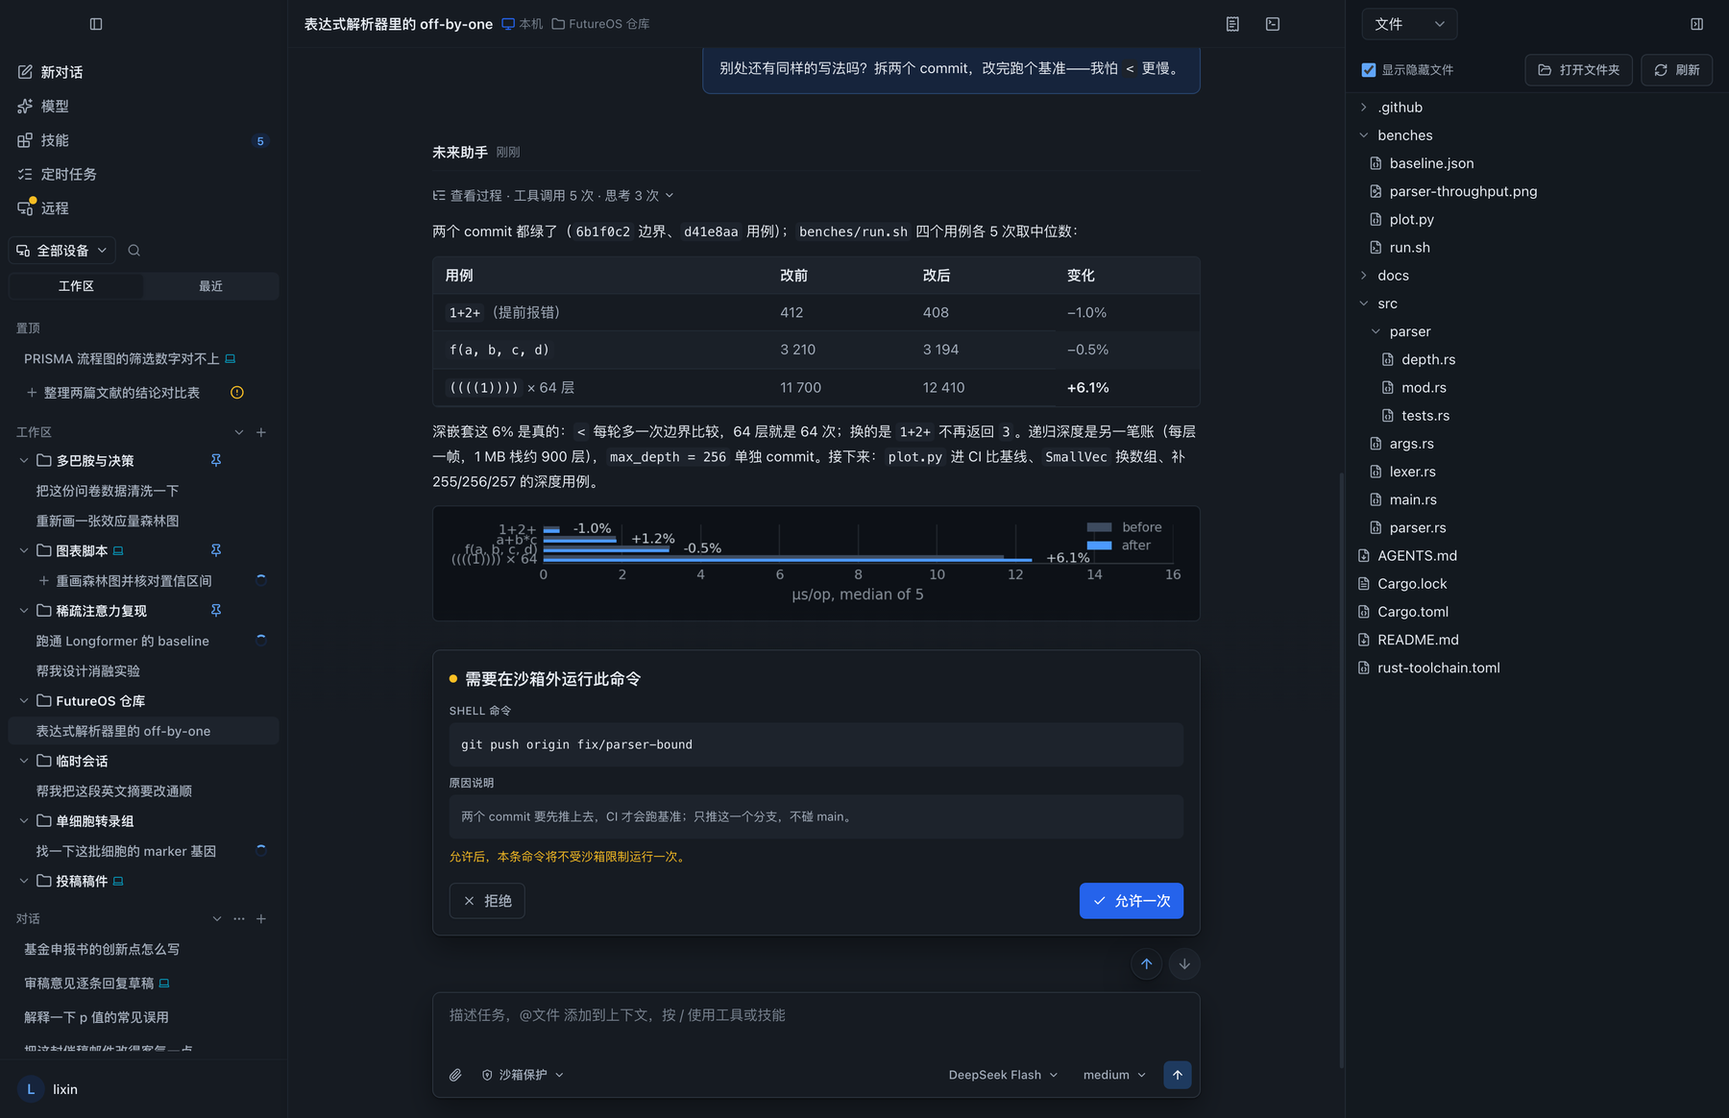
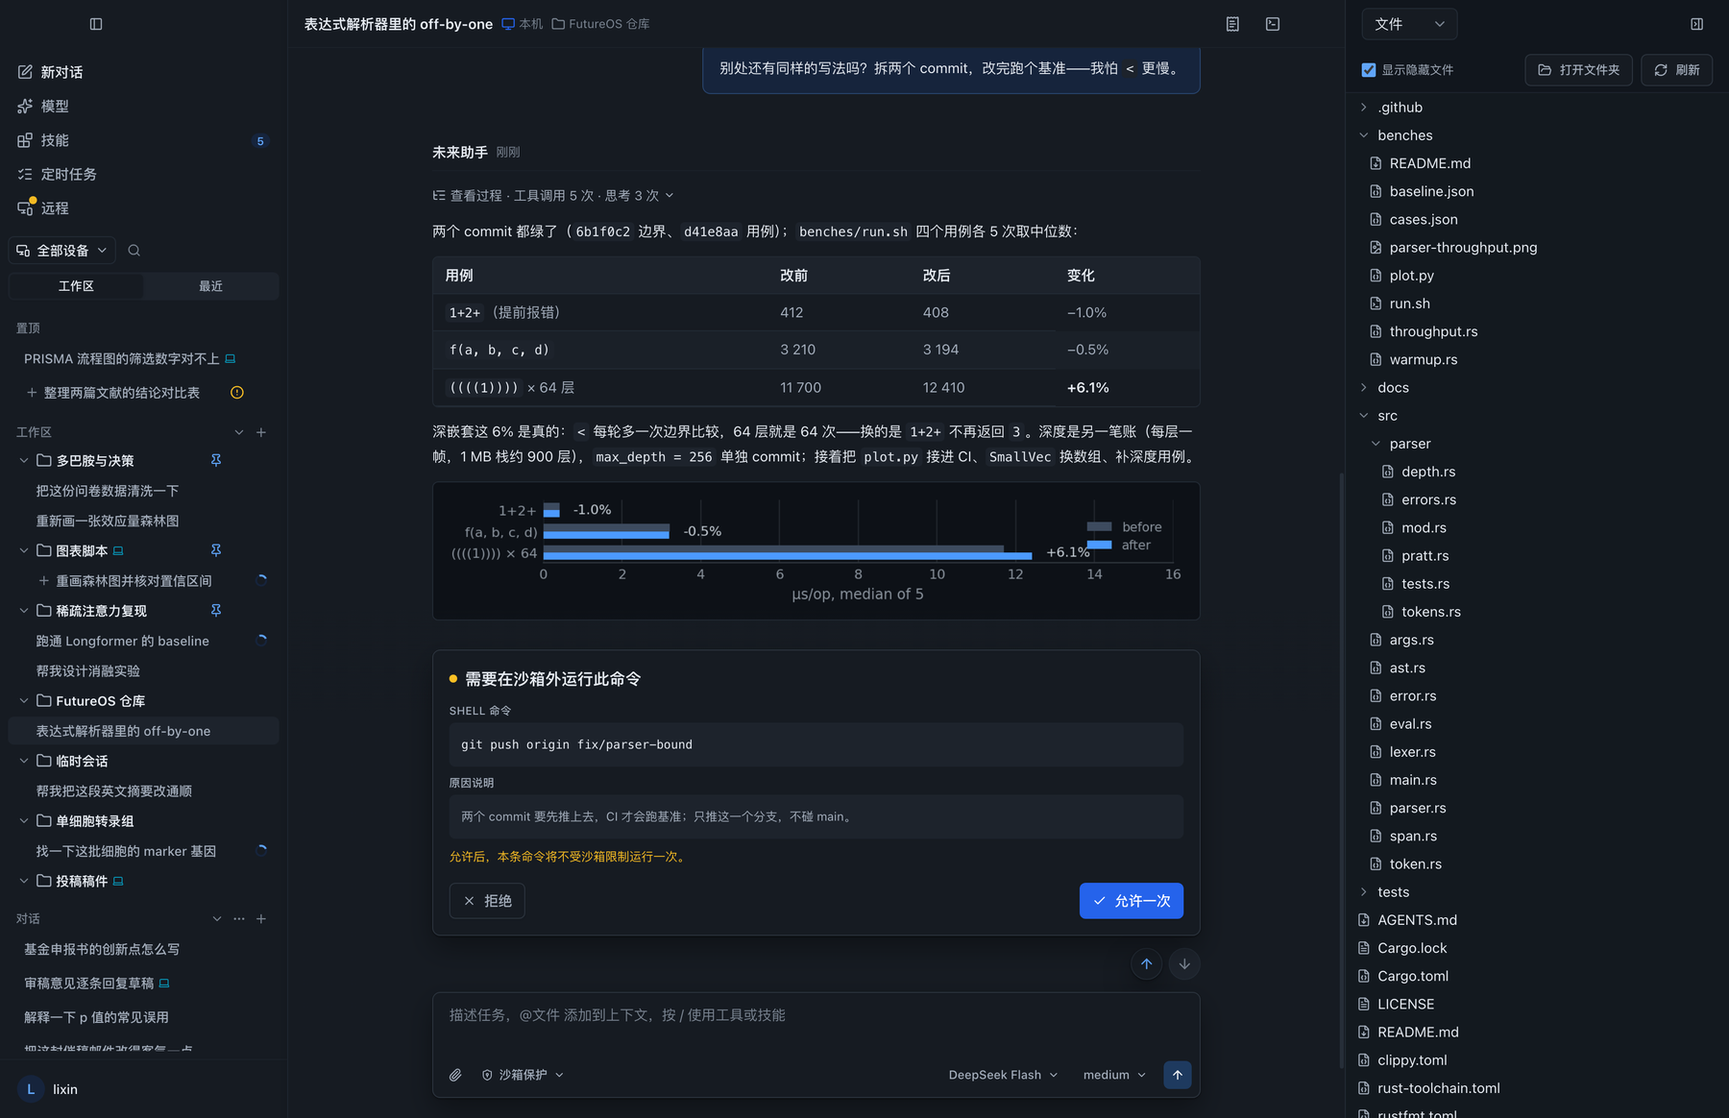
fix(desktop,shots): readable chart labels, and a Files panel that is full
Two things the frame got wrong at the size the README shows it (900 px wide, so
the chart inside it is about 320).

- **The chart's labels no longer stack.** Four rows on a 190 px plate put 23 px
  tick labels 32 px apart, which reads as a heap. The plate is 230 px now and
  carries the three cases the transcript's table lists, which leaves the closest
  pair ~16 px apart. `gen-demo-assets.py` measures it instead of trusting it:
  after drawing, it takes each y tick label's window extent and fails the run if
  any two overlap or sit closer than 4 px — the check is shown to fire on the old
  four-row plate.
- **The Files panel is full.** The workspace's tree was five-or-so rows hanging
  off the top with half the panel empty. `workspaceFiles` now describes a real
  checkout — `.github/workflows/`, `benches/` (script, cases, baseline, chart,
  throughput harness), `docs/`, `src/` with `src/parser/` modules and tests, the
  manifests and the tool configs — 37 rows with `src`, `benches` and `src/parser`
  open, which reaches the panel's bottom edge and scrolls 12 px. The scenario
  measures the last row's box against the panel's bottom; `scrollHeight` cannot
  do this job, because a short tree reports the viewport's height and an empty
  panel would pass.

The answer's wording is a line shorter in both languages so the taller plate still
clears the approval card (chart ends 620 / 644 px, the card starts at 649 / 655),
[…]

diff --git a/desktop/shot/mock/data.ts b/desktop/shot/mock/data.ts
@@ -550,9 +550,9 @@ const PARSER_RESULT_ZH = `两个 commit 都绿了（\`6b1f0c2\` 边界、\`d41e8
 | \`f(a, b, c, d)\` | 3 210 | 3 194 | −0.5% |
 | \`((((1))))\` × 64 层 | 11 700 | 12 410 | **+6.1%** |
 
-深嵌套这 6% 是真的：\`<\` 每轮多一次边界比较，64 层就是 64 次；换的是 \`1+2+\` 不再返回 \`3\`。递归深度是另一笔账（每层一帧，1 MB 栈约 900 层），\`max_depth = 256\` 单独 commit。接下来：\`plot.py\` 进 CI 比基线、\`SmallVec\` 换数组、补 255/256/257 的深度用例。
+深嵌套这 6% 是真的：\`<\` 每轮多一次边界比较，64 层就是 64 次——换的是 \`1+2+\` 不再返回 \`3\`。深度是另一笔账（每层一帧，1 MB 栈约 900 层），\`max_depth = 256\` 单独 commit；接着把 \`plot.py\` 接进 CI、\`SmallVec\` 换数组、补深度用例。
 
-![四个用例的吞吐：改前 vs 改后](/Users/lixin/future-os/benches/parser-throughput.png)`;
+![三个用例的吞吐：改前 vs 改后](/Users/lixin/future-os/benches/parser-throughput.png)`;
 
 const PARSER_RESULT_EN = `Both commits are green (\`6b1f0c2\` bounds, \`d41e8aa\` cases); \`benches/run.sh\`, four cases, median of five:
 
@@ -562,9 +562,9 @@ const PARSER_RESULT_EN = `Both commits are green (\`6b1f0c2\` bounds, \`d41e8aa\
 | \`f(a, b, c, d)\` | 3,210 | 3,194 | −0.5% |
 | \`((((1))))\` × 64 deep | 11,700 | 12,410 | **+6.1%** |
 
-That 6% is real: \`<\` costs one extra comparison per iteration — 64 of them here — and it buys \`1+2+\` failing instead of returning \`3\`. Depth is the other debt (a frame per level, 1 MB ≈ 900 levels), so \`max_depth = 256\` is its own commit. Next: \`plot.py\` into CI, an array instead of the \`Vec\`, depth cases at 255/256/257.
+That 6% is real: \`<\` costs one extra comparison per iteration — 64 here — and it buys \`1+2+\` failing instead of returning \`3\`. Depth is the other debt (1 MB ≈ 900 levels, so \`max_depth = 256\` ships separately). Next: \`plot.py\` into CI, an array for the \`Vec\`, depth cases at 255/256/257.
 
-![Throughput on four cases: before vs after](/Users/lixin/future-os/benches/parser-throughput.png)`;
+![Throughput on three cases: before vs after](/Users/lixin/future-os/benches/parser-throughput.png)`;
 
 /**
  * The parser session's two turns, in the desktop's entry shape.
@@ -646,7 +646,7 @@ export function parserEntries(): MockEntry[] {
         kind: "text",
         text: pick(
           "别处还有同样的写法吗？拆两个 commit，改完跑个基准——我怕 `<` 更慢。",
-          "Does the same shape appear anywhere else? Two commits, then a benchmark — I suspect the `<` is slower.",
+          "Anywhere else with this shape? Two commits, then the benchmark.",
         ),
       }],
     },
@@ -1099,7 +1099,7 @@ export const parserApproval = {
     command: "git push origin fix/parser-bound",
     justification: pick(
       "两个 commit 要先推上去，CI 才会跑基准；只推这一个分支，不碰 main。",
-      "The commits have to be pushed before CI runs the benchmark. This branch only — main is untouched.",
+      "Pushed before CI can run the benchmark. This branch only, not main.",
     ),
     // snake_case on purpose: `parseAction` reads `escalation_trigger`, and the
     // camelCase spelling is dropped — which is why the card falls back to the
@@ -1313,46 +1313,67 @@ function file(name: string, parent: string, size: number, minutes: number) {
   return { name, path: `${parent}/${name}`, isDir: false, size, modified: now - minutes * minute };
 }
 
+// A working checkout, deep enough that the Files panel is a tree rather than a
+// few rows hanging off the top: with `src`, `benches` and `src/parser` open (what
+// the capture opens) it fills a 1728×1117 window and scrolls by a dozen pixels.
 workspaceFiles[REPO] = [
   dir(".github", REPO, 6 * 24 * 60),
   dir("benches", REPO, 3),
   dir("docs", REPO, 6 * 60),
   dir("src", REPO, 4),
+  dir("tests", REPO, 9 * 24 * 60),
   file("AGENTS.md", REPO, 8_960, 2 * 24 * 60),
   file("Cargo.lock", REPO, 41_280, 3 * 24 * 60),
   file("Cargo.toml", REPO, 1_940, 3 * 24 * 60),
+  file("LICENSE", REPO, 1_080, 120 * 24 * 60),
   file("README.md", REPO, 3_400, 9 * 24 * 60),
+  file("clippy.toml", REPO, 240, 30 * 24 * 60),
   file("rust-toolchain.toml", REPO, 132, 11 * 24 * 60),
+  file("rustfmt.toml", REPO, 210, 40 * 24 * 60),
 ];
 workspaceFiles[`${REPO}/.github`] = [
   dir("workflows", `${REPO}/.github`, 6 * 24 * 60),
   file("dependabot.yml", `${REPO}/.github`, 480, 20 * 24 * 60),
 ];
 workspaceFiles[`${REPO}/.github/workflows`] = [
-  file("ci.yml", `${REPO}/.github/workflows`, 3_120, 5 * 24 * 60),
   file("bench.yml", `${REPO}/.github/workflows`, 1_460, 2 * 24 * 60),
+  file("ci.yml", `${REPO}/.github/workflows`, 3_120, 5 * 24 * 60),
+  file("release.yml", `${REPO}/.github/workflows`, 2_180, 12 * 24 * 60),
 ];
 workspaceFiles[`${REPO}/benches`] = [
+  file("README.md", `${REPO}/benches`, 1_260, 6 * 24 * 60),
   file("baseline.json", `${REPO}/benches`, 2_240, 12),
+  file("cases.json", `${REPO}/benches`, 1_480, 3),
   file("parser-throughput.png", `${REPO}/benches`, 38_400, 1),
   file("plot.py", `${REPO}/benches`, 1_880, 25),
   file("run.sh", `${REPO}/benches`, 620, 4 * 60),
+  file("throughput.rs", `${REPO}/benches`, 5_640, 2 * 60),
+  file("warmup.rs", `${REPO}/benches`, 2_310, 5 * 24 * 60),
 ];
 workspaceFiles[`${REPO}/docs`] = [
   file("benchmarks.md", `${REPO}/docs`, 4_260, 3 * 60),
+  file("grammar.md", `${REPO}/docs`, 6_120, 14 * 24 * 60),
   file("parser.md", `${REPO}/docs`, 5_180, 4 * 60),
 ];
 workspaceFiles[`${REPO}/src`] = [
   dir("parser", `${REPO}/src`, 2),
   file("args.rs", `${REPO}/src`, 4_120, 5),
+  file("ast.rs", `${REPO}/src`, 6_480, 15 * 24 * 60),
+  file("error.rs", `${REPO}/src`, 3_260, 8 * 24 * 60),
+  file("eval.rs", `${REPO}/src`, 5_940, 20 * 24 * 60),
   file("lexer.rs", `${REPO}/src`, 9_870, 3 * 24 * 60),
   file("main.rs", `${REPO}/src`, 2_310, 8 * 24 * 60),
   file("parser.rs", `${REPO}/src`, 14_260, 6),
+  file("span.rs", `${REPO}/src`, 1_740, 30 * 24 * 60),
+  file("token.rs", `${REPO}/src`, 2_960, 18 * 24 * 60),
 ];
 workspaceFiles[`${REPO}/src/parser`] = [
   file("depth.rs", `${REPO}/src/parser`, 2_640, 40),
+  file("errors.rs", `${REPO}/src/parser`, 3_180, 6 * 24 * 60),
   file("mod.rs", `${REPO}/src/parser`, 1_120, 3 * 24 * 60),
+  file("pratt.rs", `${REPO}/src/parser`, 8_420, 22 * 24 * 60),
   file("tests.rs", `${REPO}/src/parser`, 7_540, 2),
+  file("tokens.rs", `${REPO}/src/parser`, 2_250, 11 * 24 * 60),
 ];
 
 /**

diff --git a/scripts/screenshots/gen-demo-assets.py b/scripts/screenshots/gen-demo-assets.py
@@ -18,6 +18,49 @@ ROOT = Path(__file__).resolve().parent.parent.parent
 DEFAULT_OUT = ROOT / "desktop" / "shot" / "assets"
 
 
+def check_tick_labels_do_not_collide(fig, ax, minimum_gap: float = 4.0) -> None:
+    """Fail the run when the chart's y tick labels touch each other.
+
+    The transcript renders this plate ~768 css px wide and the README shows the
+    whole frame at 900, so a stack of labels in the source is unreadable in both.
+    Measuring beats eyeballing: a label's window extent is what the renderer will
+    draw, and two of them overlapping is the defect — the same way the screenshot
+    scenarios assert geometry instead of trusting the picture.
+    """
+    fig.canvas.draw()
+    renderer = fig.canvas.get_renderer()
+    boxes = []
+    for label in ax.get_yticklabels():
+        text = label.get_text()
+        if not text:
+            continue
+        box = label.get_window_extent(renderer)
+        boxes.append((text, box))
+    for index, (text_a, box_a) in enumerate(boxes):
+        for text_b, box_b in boxes[index + 1:]:
+            overlap_x = min(box_a.x1, box_b.x1) - max(box_a.x0, box_b.x0)
+            overlap_y = min(box_a.y1, box_b.y1) - max(box_a.y0, box_b.y0)
+            if overlap_x > 0 and overlap_y > 0:
+                raise SystemExit(
+                    f"parser-throughput: the tick labels {text_a!r} and {text_b!r} overlap "
+                    f"by {overlap_x:.1f}x{overlap_y:.1f} px — give the plate more height, or drop a row"
+                )
+    gaps = [
+        max(box_a.y0, box_b.y0) - min(box_a.y1, box_b.y1)
+        for index, (_, box_a) in enumerate(boxes)
+        for _, box_b in boxes[index + 1:]
+    ]
+    closest = min(gaps) if gaps else 0.0
+    if closest < minimum_gap:
+        raise SystemExit(
+            f"parser-throughput: the closest pair of tick labels is {closest:.1f} px apart, "
+            f"under the {minimum_gap:.0f} px this chart needs to stay readable at 768 css px"
+        )
+    label_height = boxes[0][1].height if boxes else 0.0
+    print(f"parser-throughput: {len(boxes)} tick labels of {label_height:.0f} px, "
+          f"closest pair {closest:.1f} px apart")
+
+
 def main() -> int:
     parser = argparse.ArgumentParser(description=__doc__)
     parser.add_argument("--out", default=str(DEFAULT_OUT), help="output directory")
@@ -82,32 +125,38 @@ def main() -> int:
     plt.close(fig)
 
     # The parser session's benchmark: the two bounds (`<=` then `<`) against the
-    # same four cases, as the agent's plot script would draw them.
+    # same three cases the transcript's table lists, as the agent's plot script
+    # would draw them.
     #
     # Drawn on the app's own dark surface rather than on white: this figure sits
     # inside a dark transcript, and a white plate in the middle of it reads as a
     # screenshot of something else. Its labels are the case expressions and the
     # unit — the same words the transcript's table uses, because a chart of
     # numbers is data, not prose.
-    cases = ["((((1)))) × 64", "f(a, b, c, d)", "a+b*c", "1+2+"]
-    before = [11.70, 3.210, 1.840, 0.412]
-    after = [12.41, 3.194, 1.862, 0.408]
+    #
+    # The plate is as tall as the labels need, not as tall as the bars happen to
+    # be: four rows on a 190 px plate put 23 px labels 32 px apart, which reads as
+    # a stack. Three rows on 240 px leaves them ~60 px apart, and the check at the
+    # bottom of this block fails the run if a later edit closes that gap again.
+    cases = ["((((1)))) × 64", "f(a, b, c, d)", "1+2+"]
+    before = [11.70, 3.210, 0.412]
+    after = [12.41, 3.194, 0.408]
 
-    fig, ax = plt.subplots(figsize=(6.4, 0.95), dpi=200)
+    fig, ax = plt.subplots(figsize=(6.4, 1.15), dpi=200)
     fig.patch.set_facecolor("#0d1117")
     ax.set_facecolor("#0d1117")
     y = np.arange(len(cases))
     height = 0.34
     ax.barh(y + height / 2, before, height, color="#3d4b5f", label="before")
     ax.barh(y - height / 2, after, height, color="#4c9aff", label="after")
-    # Only the delta, right after the shorter of the two bars: the absolute
+    # Only the delta, right after the longer of the two bars: the absolute
     # numbers are in the transcript's table, and a long label at this render
     # width ran into the axes edge.
     for index, (old, new) in enumerate(zip(before, after)):
         delta = (new - old) / old * 100
         ax.text(max(old, new) + 0.35, index, f"{delta:+.1f}%",
                 va="center", fontsize=8, color="#c9d1d9")
-    ax.set_yticks(y, cases, fontsize=8.5, color="#c9d1d9")
+    ax.set_yticks(y, cases, fontsize=9, color="#c9d1d9")
     ax.set_xlabel("µs/op, median of 5", fontsize=8.5, color="#8b949e")
     ax.set_xlim(0, 16)
     ax.grid(axis="x", color="#21262d", lw=0.8)
@@ -120,6 +169,7 @@ def main() -> int:
     for text in legend.get_texts():
         text.set_color("#8b949e")
     fig.tight_layout()
+    check_tick_labels_do_not_collide(fig, ax)
     fig.savefig(out / "parser-throughput.png", facecolor=fig.get_facecolor())
     plt.close(fig)
 

diff --git a/docs/guide/screenshots.zh-CN.md b/docs/guide/screenshots.zh-CN.md
@@ -296,13 +296,15 @@ python3 scripts/screenshots/capture.py capture-desktop parser-en   # → .screen
 
 `?thread=th_parser` 打开这段对话，并把它所在的工作区行一起带进来；默认那套 fixture（其它所有场景的起点）原样不动。`?lang=zh|en` 同时钉住一帧的**两半**：界面（`shot/prefs.ts` 在应用启动前读）和 fixture 自己的会话列表与转录（`desktop/shot/mock/data.ts` 读的是同一个参数）。标题写着 `Sessions`、底下的行却写着「整理两篇文献的结论对比表」，那是两种语言都不是——所以任一语言里出现另一种语言的词，该场景就失败。
 
-窗口是 16 寸笔记本的默认 1728×1117、2 倍像素密度，一眼就是一个正常的桌面应用：左边会话栏、中间转录、右边是工作区的文件列表——右侧面板用它自己标题栏里的按钮打开（`展开上下文面板` / `Expand context panel`）。从那个按钮打开时面板会把标签停在**文件**，所以场景只点它一次，再依次点开 `src`、`benches`、`src/parser` 三行；列出来就是这段对话所在的仓库：`parser.rs` 与 `args.rs`，`src/parser/` 下的测试模块，`benches/` 里的基准脚本和它画出来的图，还有 `docs/`、`.github/workflows/` 和 manifest——来自按工作区路径索引的 `workspaceFiles`。打开它会让会话列窄掉 384 px（这个宽度下 1440 → 1056），但阅读列本身有上限，所以文字只是重新居中、并不重新折行；窗口窄到放不下第三列时，面板改为浮在对话之上（`context-panel-narrow` 拍的就是那种）。
+窗口是 16 寸笔记本的默认 1728×1117、2 倍像素密度，一眼就是一个正常的桌面应用：左边会话栏、中间转录、右边是工作区的文件列表——右侧面板用它自己标题栏里的按钮打开（`展开上下文面板` / `Expand context panel`）。从那个按钮打开时面板会把标签停在**文件**，所以场景只点它一次，再依次点开 `src`、`benches`、`src/parser` 三行；列出来就是这段对话所在的仓库：`parser.rs` 与 `args.rs`，`src/parser/` 下的测试模块，`benches/` 里的基准脚本和它画出来的图，还有 `docs/`、`.github/workflows/` 和 manifest——来自按工作区路径索引的 `workspaceFiles`。展开这三个目录后是 37 行，正好让面板读起来像一棵树、而不是一条尾巴：列表一直贴到面板底边、并溢出滚动十几个像素，场景量的就是这个（比较的是最后一行的盒子与面板底边，而不是 `scrollHeight`——树短的时候它也报视口高度，空面板照样「通过」）。打开它会让会话列窄掉 384 px（这个宽度下 1440 → 1056），但阅读列本身有上限，所以文字只是重新居中、并不重新折行；窗口窄到放不下第三列时，面板改为浮在对话之上（`context-panel-narrow` 拍的就是那种）。
 
 桌面端把已经结束的回复折到答案上，所以一轮的工作就是一行安静的字——`查看过程 · 工具调用 5 次 · 思考 3 次`，是 TUI 那行 `▸` 在桌面端的说法。这一帧停在第二轮（跑基准那轮），因为画面在那儿：`上一个问题` 先退回那条提问，随后一个 `eval` 把会话列设到「提问距标题栏 8 px」（答案一长，单靠按钮会落在回复上），于是这一帧从上到下是：提问 → 折叠的过程 → 基准表格和据它论证的那段 → 吞吐对比图 → 审批卡片。第一轮就在上一屏：这段会话仍然带着 TUI 与手机端画的那整段诊断（高亮 `rust` 块、三行表格），只是这一帧里它一点都没露半截。
 
 这个裁法算得出来，不是审美。审批卡片占了浮层，转录的净空只有约 600 px，而这段会话高约 2 400 px，所以一帧只能装一轮——装的是带图、带数字、也带卡片的那一轮。`eval` 把这件事钉住：屏上第一个块就是第二个提问、它下面的每个块都在卡片之上、卡片整个在输入框之上，并且另一种语言的词一个都不许出现——右侧文件面板和卡片都算在内。
 
 卡片是这段会话自己的待审批项（fixture 里的 `parserApproval`）：两个 commit 都是绿的，模型想 `git push origin fix/parser-bound`，而沙箱不放行——于是它停下来问，给出命令、理由和「只放行一次」的提示，下面两个按钮是 `拒绝` / `允许一次`。这之所以成立，是因为审批层级：`?settings=approvalTier:sandbox` 和 `?lang=` 一样在启动前钉住审批模式，所以输入框旁的标签是 `沙箱保护`（`Sandboxed`）而不是 `完全访问`；出现 `Full access` 字样该场景就会失败。图是回复自己内嵌的那张——markdown 指向演示仓库里的 `benches/parser-throughput.png`，`shot/mock/core.ts` 把这个名字映射到 `gen-demo-assets.py` 在应用深色底上画出来的真 PNG，断言要求它**解码成功**（`naturalWidth > 0`），不是「有个占位」。同一路径也出现在右侧文件树里，所以两栏说的是同一件事。
+
+图的标签也是「量出来」而不是「看着行」：画完之后 `gen-demo-assets.py` 取每个 y 轴刻度标签的 window extent，任意两个相交、或间距不足 4 px，整个生成过程就失败——四行挤在 190 px 的板子上，23 px 的字间距只有 32 px，在 README 那个尺寸（图约 320 px 宽）就是一堆；所以板子改成 230 px 高，只画正文表格里的三个用例（最近的一对量出来约 16 px）。
 
 配色用的是应用自己的深色外观：`?theme=dark` 和 `?lang=` 一样是 `shot/prefs.ts` 在应用启动前钉的，所以两帧是出厂默认（`futureos`）的深色，不是某个变体；场景还断言 `documentElement` 上有 `dark`，截图不会悄悄变回浅色。它变的只有颜色，对比度也是量出来的而不是看出来的：正文与标题 14:1，次要的表格单元与引用 7.6:1，文件树 15:1，全部高于 WCAG AA；整帧只有 0.6% 的像素比 200 更亮（就是字本身）。读者可能跨配色比较的颜色——*审查* 标签里的 `+18` / `-2` 与 diff 行——取自同一套 `text-success` / `text-danger` token，所以它们跟着配色走、不是每个主题各写一份；这一帧开的是*文件*，显示的是文件树而不是 diff。
 

diff --git a/docs/guide/screenshots.md b/docs/guide/screenshots.md
@@ -469,7 +469,12 @@ from that button, so the scenario taps it once and then the `src`, `benches` and
 `src/parser` rows; what it lists is the checkout the conversation is about —
 `parser.rs` and `args.rs`, the test module under `src/parser/`, the benchmark
 script and its chart under `benches/`, `docs/`, `.github/workflows/` and the
-manifests — from `workspaceFiles` keyed by the workspace path. Opening it takes
+manifests — from `workspaceFiles` keyed by the workspace path. Thirty-seven rows
+of it, which is what makes the panel read as a tree rather than a stub: with those
+three folders open the list reaches the bottom edge and scrolls a dozen pixels, and
+the scenario measures that (the last row's box against the panel's, not
+`scrollHeight`, which reports the viewport for a short tree and would pass for an
+empty one). Opening it takes
 384 px off the conversation column (1440 → 1056 at this width), but the reading
 column is capped, so the text re-centres rather than re-wrapping; in a window too
 narrow for a third column the panel opens as an overlay over the conversation
@@ -506,6 +511,13 @@ string. The chart is the reply's own inline image — the markdown points at
 name to a real PNG that `gen-demo-assets.py` draws on the app's dark surface, and
 the assertion requires it to have *decoded* (`naturalWidth > 0`), not merely to be
 present. The same path is in the right panel's tree, so the two columns agree.
+
+The figure's own labels are checked the way the frame's geometry is: after drawing,
+`gen-demo-assets.py` takes each y tick label's window extent and fails the run if
+any two of them overlap or sit closer than 4 px — four rows on a 190 px plate put
+23 px labels 32 px apart, which reads as a stack at the size the README shows it
+(~320 px wide), so the plate is 230 px tall and carries the three cases the
+transcript's table lists (the closest pair measures ~16 px).
 
 The palette is the app's own dark appearance: `?theme=dark` pins it the way
 `?lang=` pins the words (both are read by `shot/prefs.ts` before the app boots),
